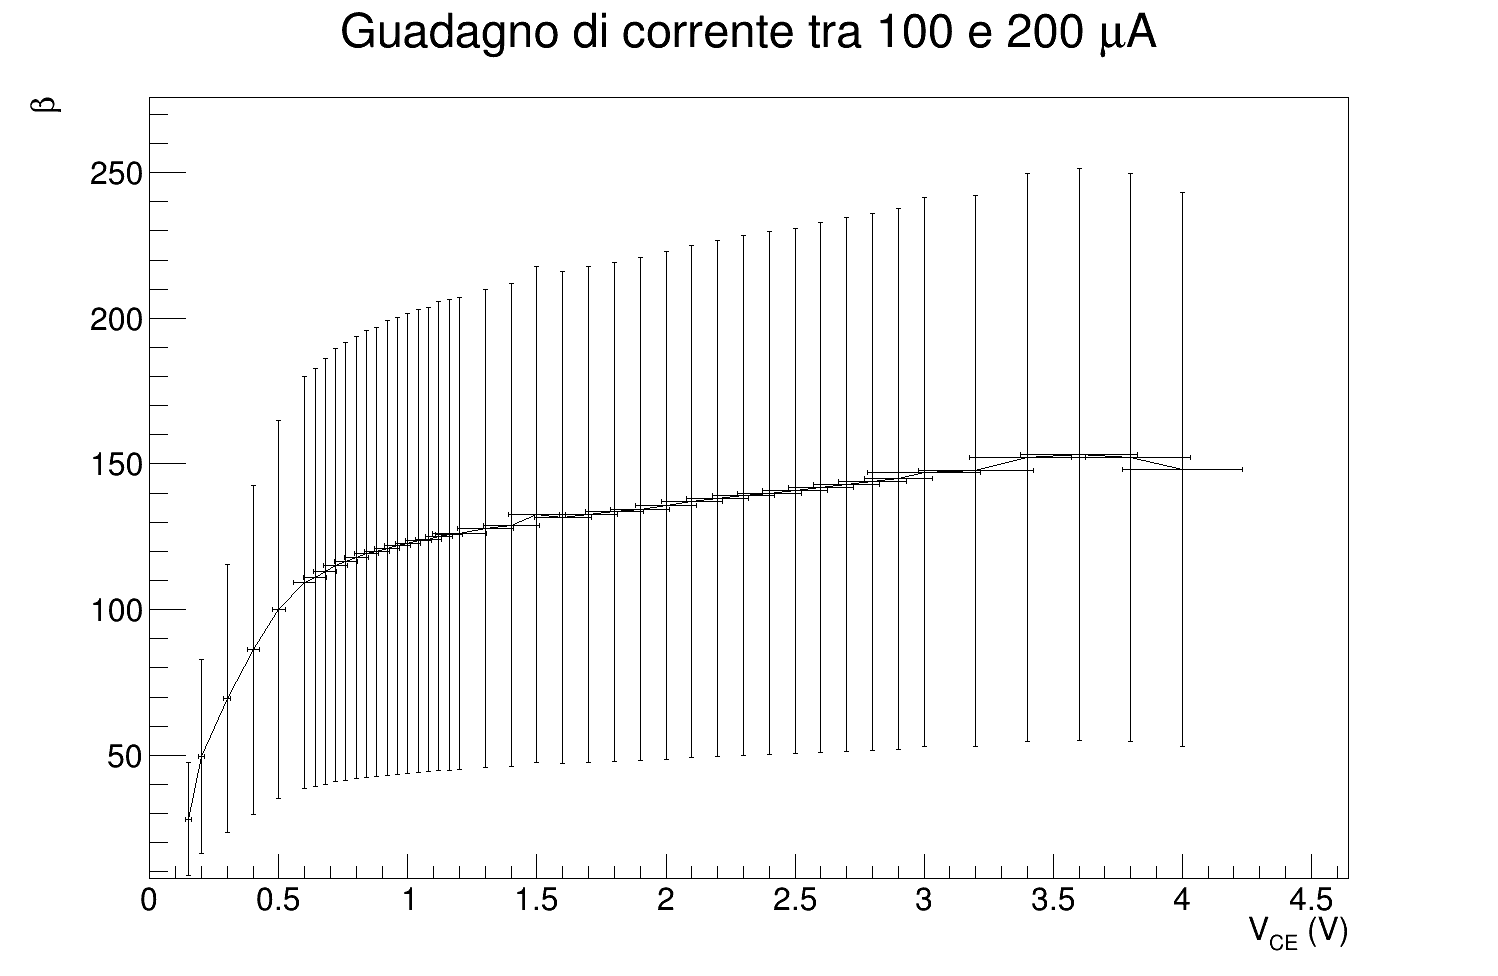
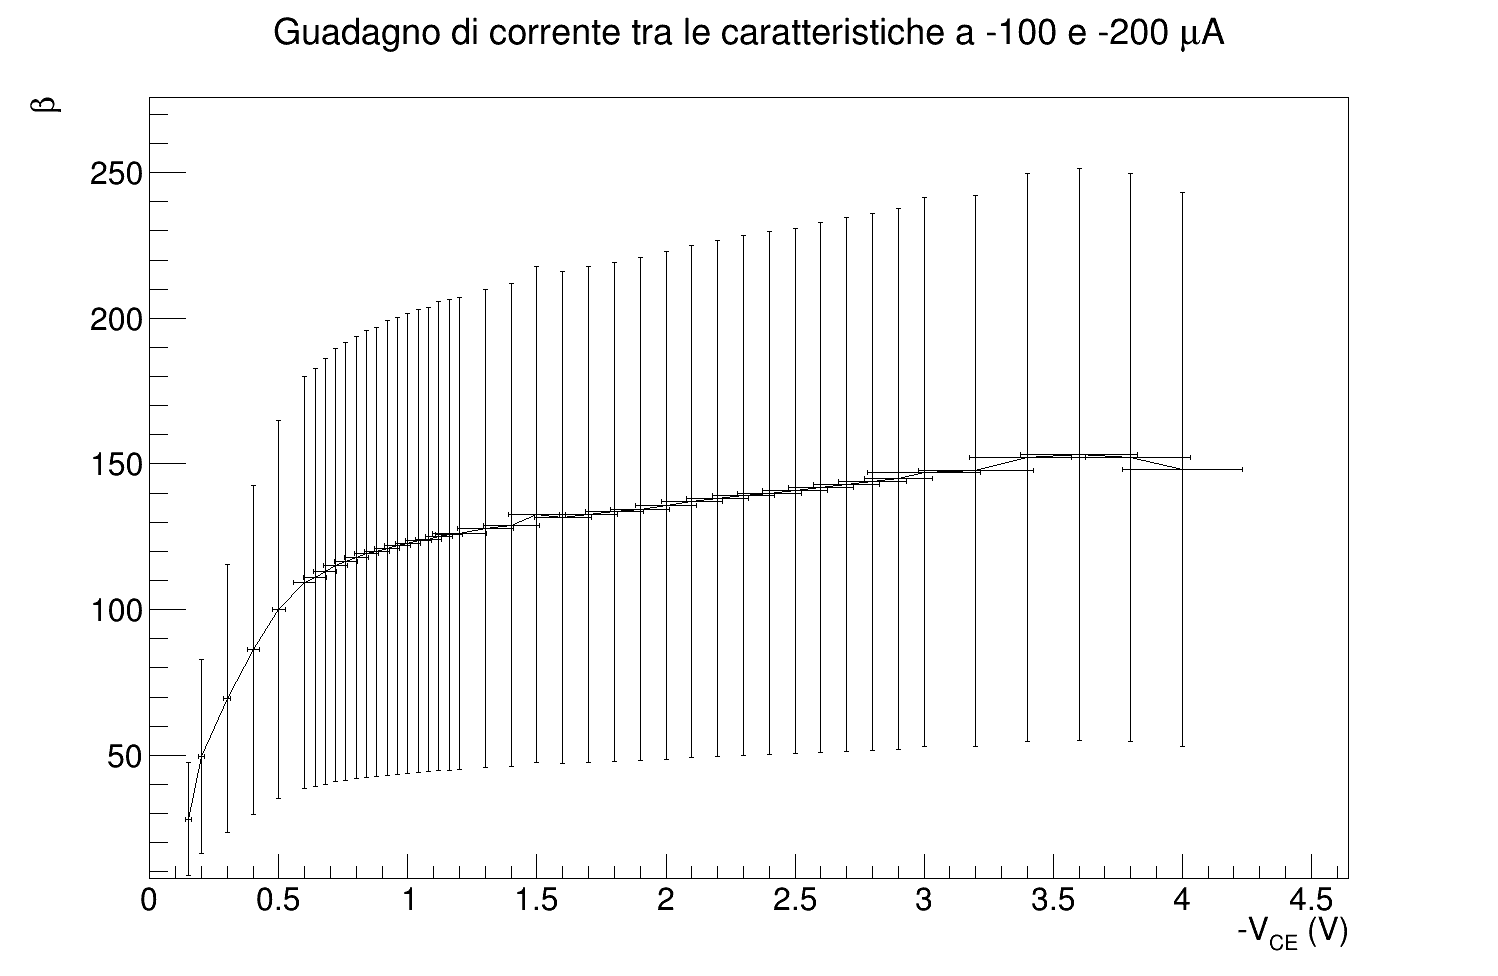
Minor changes

Changed region(s): [[0.1842, 0.0, 0.8291, 0.0615]]

diff --git a/lab2/relazione/src/sections/analisi.tex b/lab2/relazione/src/sections/analisi.tex
@@ -17,7 +17,7 @@
         Tabelle~\ref{tab:100uA}~e~\ref{tab:200uA}.
         Per la precisione, al fine di ricavare i parametri
         desiderati direttamente dal fit, questo è stato eseguito
-        secondo la funzione
+        con la funzione
         \begin{equation*}
             y = g \cdot ( x - V_A)
         \end{equation*}
@@ -30,7 +30,7 @@
             \caption{
                 Grafico della caratteristica $I_C - V_{CE}$ ad assi
                 invertiti e fit della regione attiva, con una
-                corrente di base pari a 100 \textmu A.
+                corrente di base pari a $-100$ \textmu A.
             }
             \label{fig:fit-100}
         \end{figure}
@@ -40,14 +40,14 @@
             \caption{
                 Grafico della caratteristica $I_C - V_{CE}$ ad assi
                 invertiti e fit della regione attiva, con una
-                corrente di base pari a 200 \textmu A.
+                corrente di base pari a $-200$ \textmu A.
             }
             \label{fig:fit-200}
         \end{figure}
-        I risultati dei fit raffigurati nelle
+        I risultati dei fit riportati nelle
         Figure~\ref{fig:fit-100}~e~\ref{fig:fit-200} e il valore
-        della resistenza in uscita $b$ calcolato con essi secondo
-        l'Eq.\,\eqref{eq:g/b} sono rispettivamente:
+        della resistenza in uscita $b$ calcolato a partire da essi secondo
+        l'Eq.\,\eqref{eq:g/b}, sono rispettivamente:
 
     \begin{table}[ht]
         \centering
@@ -64,7 +64,7 @@
                 \rule{0pt}{3ex} $b$ (\textohm) & $0.935 \pm 0.060$ \\[1ex]
                 \hline
             \end{tabular}
-            \caption{-100}
+            \caption{-100 \textmu A}
             \label{tab:fit-100uA}
         \end{subtable}
         \hfill
@@ -81,7 +81,7 @@
                 \rule{0pt}{3ex} $b$ (\textohm) & $0.453 \pm 0.029$ \\[1ex]
                 \hline
             \end{tabular}
-            \caption{-200 \textmu A.}
+            \caption{-200 \textmu A}
             \label{tab:fit-200uA}
         \end{subtable}
 
@@ -94,7 +94,7 @@
 
     \end{table}
 
-    In fine si è calcolato il guadagno di corrente $\beta(V_{CE})$ definito come:
+    \noindent Infine si è calcolato il guadagno di corrente $\beta(V_{CE})$ definito come:
     \begin{equation*}
         \beta(V_{CE}) = \frac{\varDelta I_C(V_{CE})}{\varDelta I_B} = \frac{\varDelta I_C(V_{CE})}{0.1}
     \end{equation*}
@@ -103,15 +103,18 @@
         \centering
         \includegraphics[width=0.7\textwidth]{../../images/beta}
         \caption{
-            Grafico del guadagno di corrente $\beta$ in funzione di
-            $V_{CE}$, tra i valori 100 e 200 \textmu A di $I_B$.
+            Grafico del guadagno di corrente $\beta$ tra le
+            caratteristiche a -100~\textmu A e -200~\textmu A, in
+            funzione di $V_{CE}$.
         }
         \label{fig:beta}
     \end{figure}
-    È immediato notare l'entità degli errori sui valori di $\beta$
+    \noindent È immediato notare l'entità degli errori sui valori di $\beta$
     riportati nel grafico in Figura~\ref{fig:beta}, per la
     spiegazione si veda l'appendice~\ref{sec:errori-beta}.
-    Tra i punti nel grafico si riporta esplicitamente il valore
-    $\beta(2) = 135 \pm  87$
+    Tra i punti nel grafico si riporta esplicitamente il valore:
+    \begin{center}
+        $\beta(-2) = 135 \pm  87$
+    \end{center}
 
 \end{document}

diff --git a/lab2/fit/calc_params.cpp b/lab2/fit/calc_params.cpp
@@ -107,7 +107,8 @@ int main() {
   // Creo il grafico dei beta (non che ci serva ma possiamo metterlo)
   TGraphErrors graph{static_cast<Int_t>(data1.X.size()), data1.X.data(),
                      data1.Y.data(), data1.EX.data(), data1.EY.data()};
-  graph.SetTitle("Guadagno di corrente tra 100 e 200 #muA;V_{CE} (V);#beta");
+  graph.SetTitle("Guadagno di corrente tra le caratteristiche a -100 e -200 "
+                 "#muA;-V_{CE} (V);#beta");
   TCanvas c{"", "", 1500, 1000};
 
   graph.Draw();

diff --git a/lab2/relazione/src/appendix/errori_su_beta.tex b/lab2/relazione/src/appendix/errori_su_beta.tex
@@ -20,8 +20,7 @@
   \begin{equation*}
     \beta = \frac{\delta I_C}{\delta I_B}
   \end{equation*}
-
-  è immediato vedere che il suo errore relativo sarà pari alla somma
+  È immediato vedere che il suo errore relativo sarà pari alla somma
   di quelli di $\delta I_C$ e $\delta I_B$.
   Tra i due è facile convincersi che quello associato a
   $\delta I_B$ sia il dominante una volta calcolato:
